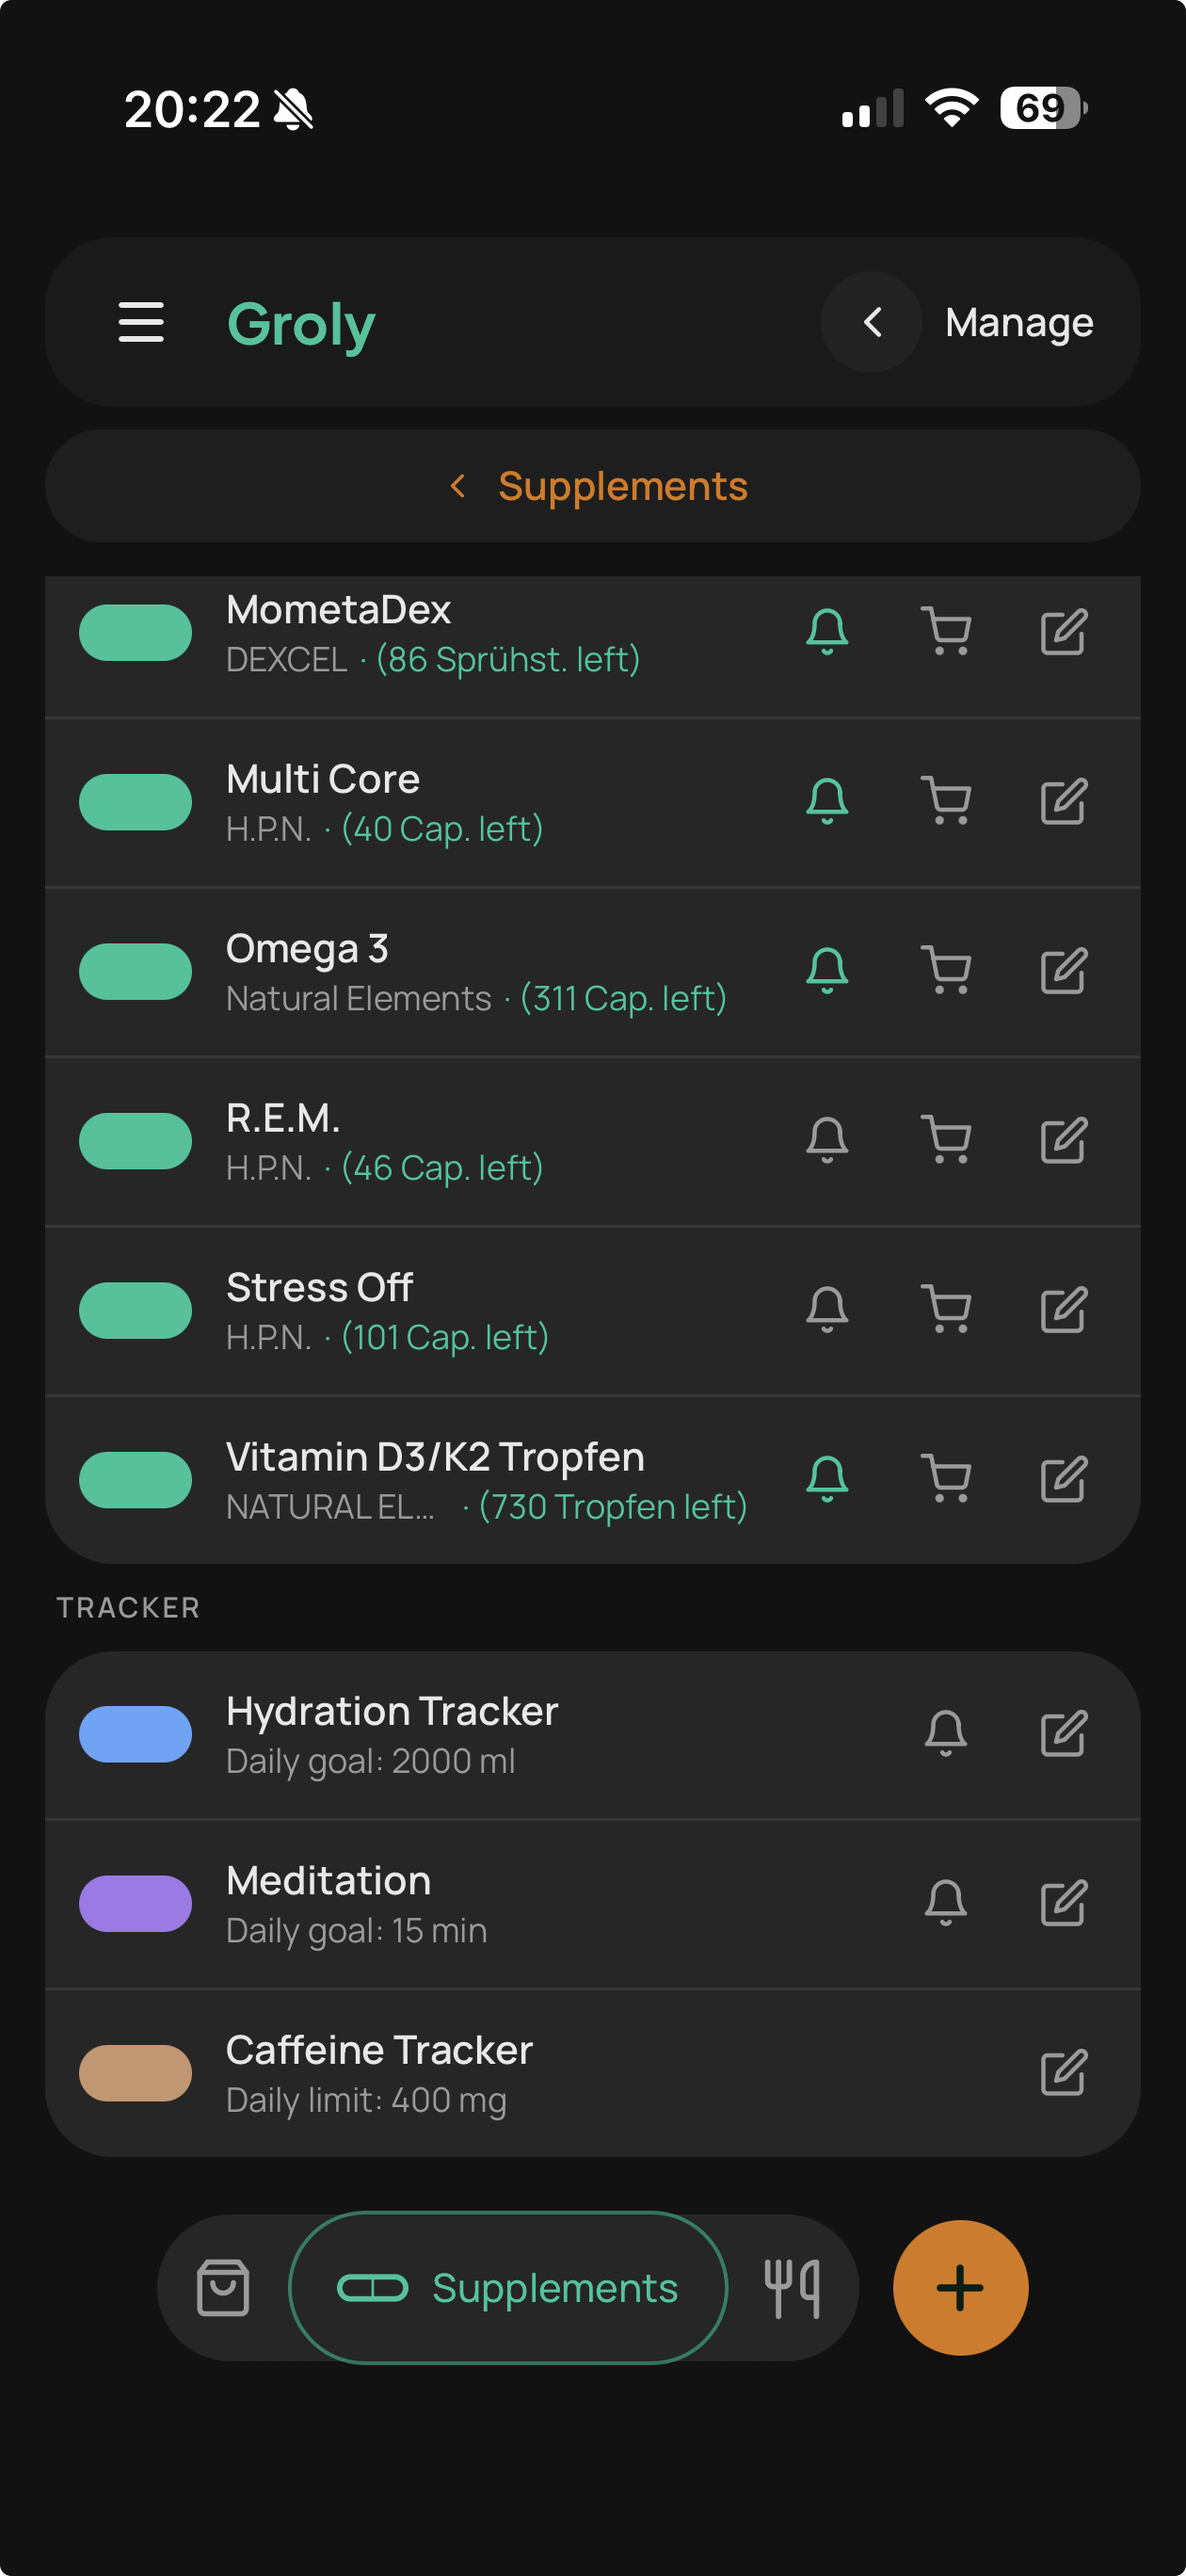
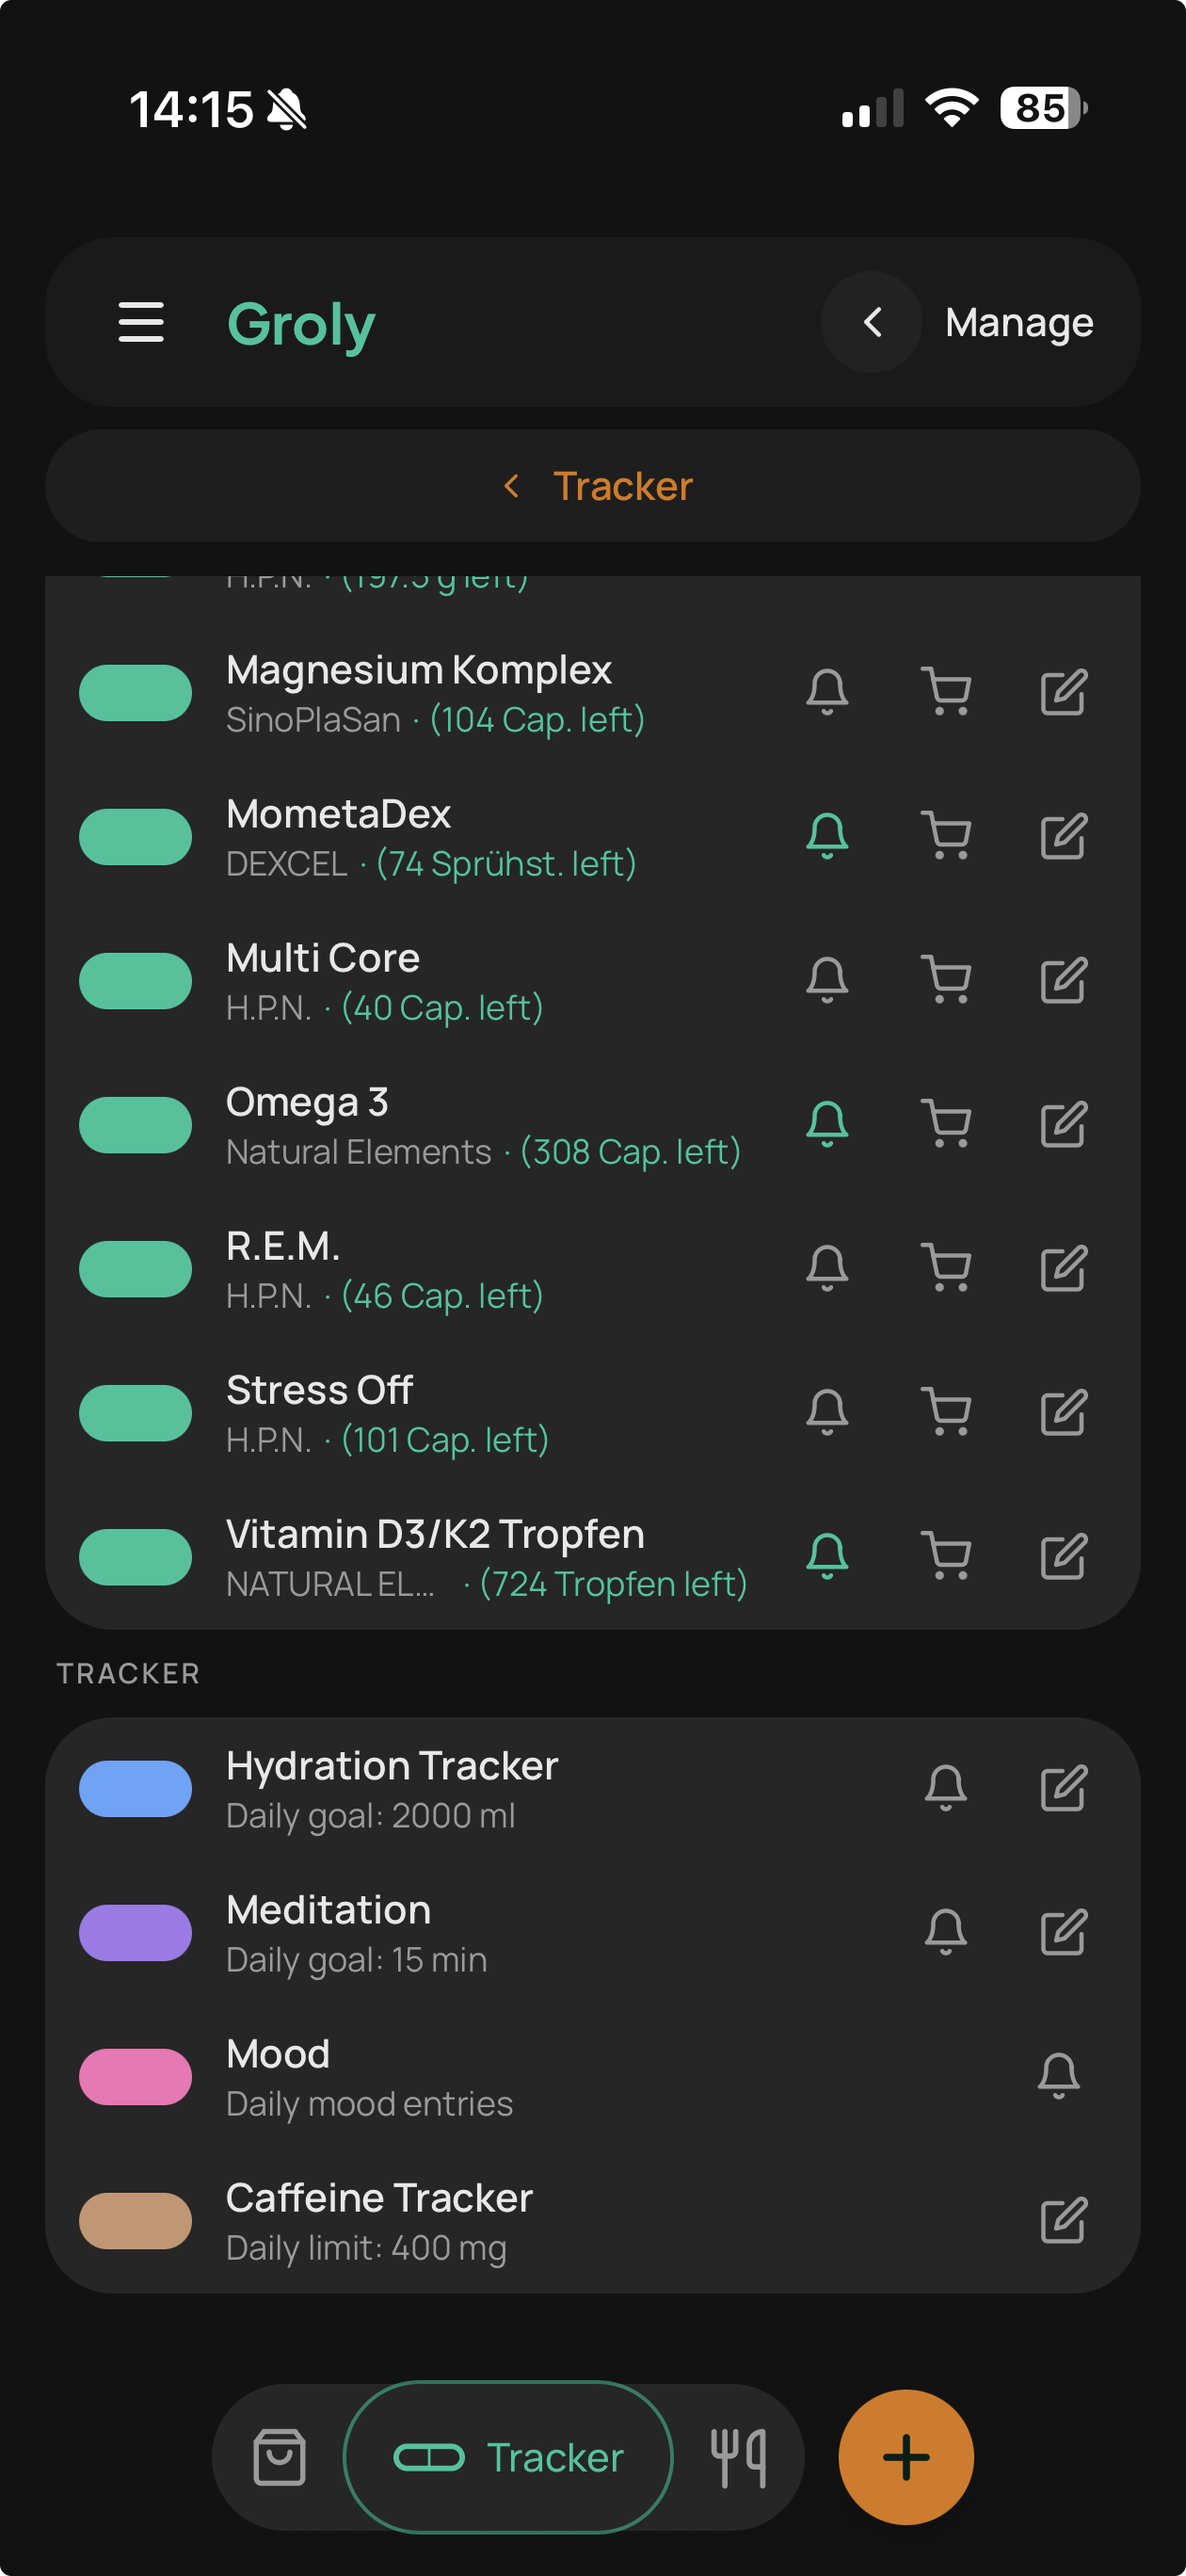
docs: update README and Unraid template for mood tracker and general tracker branding

diff --git a/README.md b/README.md
@@ -4,7 +4,7 @@
   <img src="static/icons/icon.svg" width="96" alt="Groly" />
 </p>
 
-A mobile-first **grocery list, supplement tracker, and meal planner** built for self-hosting — designed for your phone, not adapted to it. Every interaction is touch-optimized: bottom navigation, large tap targets, swipe gestures, and offline support so it works without signal in the store. Also fully usable in a desktop browser.
+A mobile-first **grocery list, health & lifestyle tracker, and meal planner** built for self-hosting — designed for your phone, not adapted to it. Every interaction is touch-optimized: bottom navigation, large tap targets, swipe gestures, and offline support so it works without signal in the store. Also fully usable in a desktop browser.
 
 Groly is a **PWA (Progressive Web App)**. Install it to your home screen on iOS or Android to unlock the full experience: offline mode, push notifications, barcode scanner, and location-based list opening all require the installed PWA.
 
@@ -29,16 +29,18 @@ Self-hosted, runs as a lightweight Docker container. Ready for **Unraid** and an
 - **Swipe to peek** – Swipe left or right on any item tile whose name is truncated to reveal the full name in an overlay, without accidentally checking it off.
 - **Favourites** – Long-press an item and tap the star next to the quantity field to save it as a favourite. Favourited items are marked with a small green dot on their tile (can be turned off in Settings → Display). Open the favourites panel via + → Favourites to quickly re-add them to any list, sorted by category. Long-press a favourite card to remove it.
 
-### Supplement Tracker
+### Tracker
 
 <p align="center">
-  <img src="docs/screenshots/Supplement Today.png" width="180" alt="Supplement tracker – today" />
-  <img src="docs/screenshots/Add Supplement.png" width="180" alt="Quick log sheet" />
-  <img src="docs/screenshots/Supplement History.png" width="180" alt="Supplement history" />
+  <img src="docs/screenshots/Supplement Today.png" width="140" alt="Supplement tracker – today" />
+  <img src="docs/screenshots/Log Supplement.png" width="140" alt="Log supplement" />
+  <img src="docs/screenshots/Log Tracker.png" width="140" alt="Add tracker entry" />
+  <img src="docs/screenshots/mood_tracker.png" width="140" alt="Mood tracker" />
 </p>
 <p align="center">
-  <img src="docs/screenshots/Manage Supplement.png" width="180" alt="Manage supplements" />
-  <img src="docs/screenshots/Edit Supplement.png" width="180" alt="Edit supplement" />
+  <img src="docs/screenshots/Supplement History.png" width="140" alt="Supplement history" />
+  <img src="docs/screenshots/Manage Supplement.png" width="140" alt="Manage supplements" />
+  <img src="docs/screenshots/Edit Supplement.png" width="140" alt="Edit supplement" />
 </p>
 
 - **Log supplements** – Track daily intake with a quick-log sheet. Adjust amounts, set the time, and confirm with one tap.
@@ -51,6 +53,7 @@ Self-hosted, runs as a lightweight Docker container. Ready for **Unraid** and an
 - **Water tracker** – Log daily water intake with preset quick-add buttons or a custom amount. Set a personal daily goal (ml) and track progress with a fill bar. Configure push reminders at fixed intervals within a time window.
 - **Caffeine tracker** – Log caffeine intake by selecting from a built-in drink catalog (10 pre-seeded drinks: Espresso, Filter Coffee, Cold Brew, and more). Per-drink default amounts are individually adjustable per user. Set a daily limit with a visual fill bar — exceeding the limit is highlighted in red. Hide drinks you don't use from the picker.
 - **Meditation tracker** – Start a full-screen meditation timer with 5/10/15/20 min quick-start presets or a custom duration via a picker wheel. Includes a configurable preparation phase, Zen circle progress animation, and configurable start/end sounds. Set a daily goal and track your session history in day, week, and month views. Optional daily push reminders.
+- **Mood tracker** – Log your daily mood on a 1–5 scale with an optional note. Track patterns over time in day, week, and month views. Set an optional daily push reminder to check in.
 
 ### Recipes & Meal Planning
 
@@ -68,7 +71,7 @@ Self-hosted, runs as a lightweight Docker container. Ready for **Unraid** and an
   <img src="docs/screenshots/Settings Page.png" width="180" alt="Settings" />
 </p>
 
-- **Feature flags** – Supplements and Recipes can be independently enabled or disabled per user in Settings → Display. Hide sections you don't use — they disappear from the navigation entirely.
+- **Feature flags** – Supplements, Trackers, and Recipes can be independently enabled or disabled per user in Settings → Display. Hide sections you don't use — they disappear from the navigation entirely.
 - **Category sorting** – Customize the display order of categories globally or per list, to match your supermarket layout.
 - **Quick access shortcuts** – Configure up to 4 shortcuts accessible by long-pressing the + button.
 - **Favourite indicator** – The green dot on favourited items can be turned off per user.
